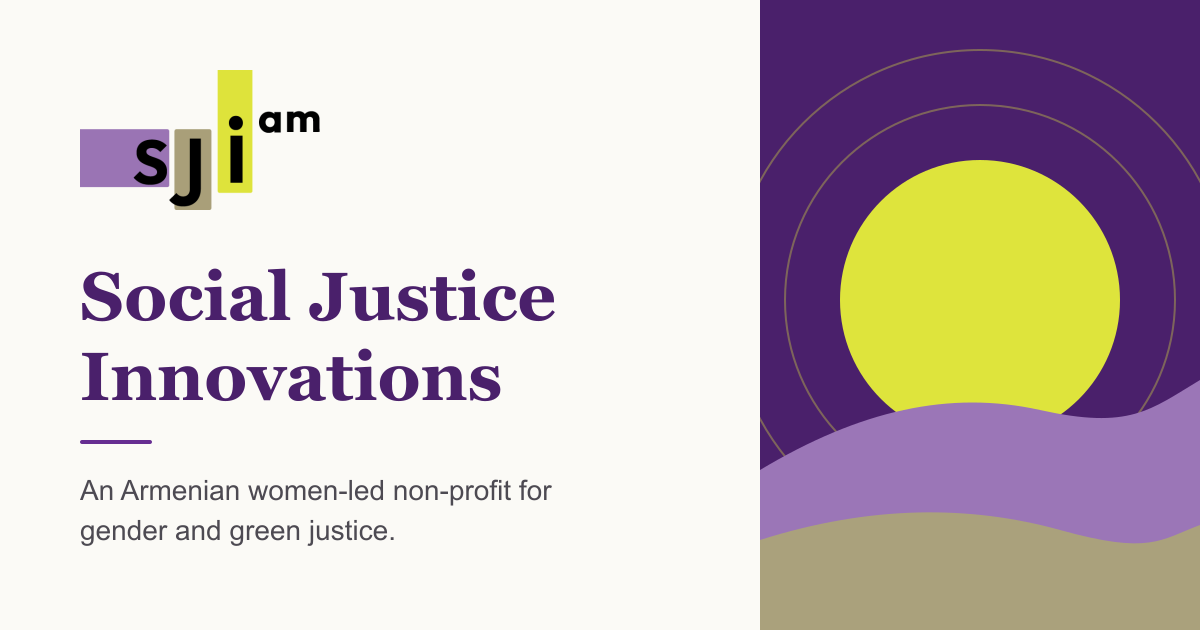
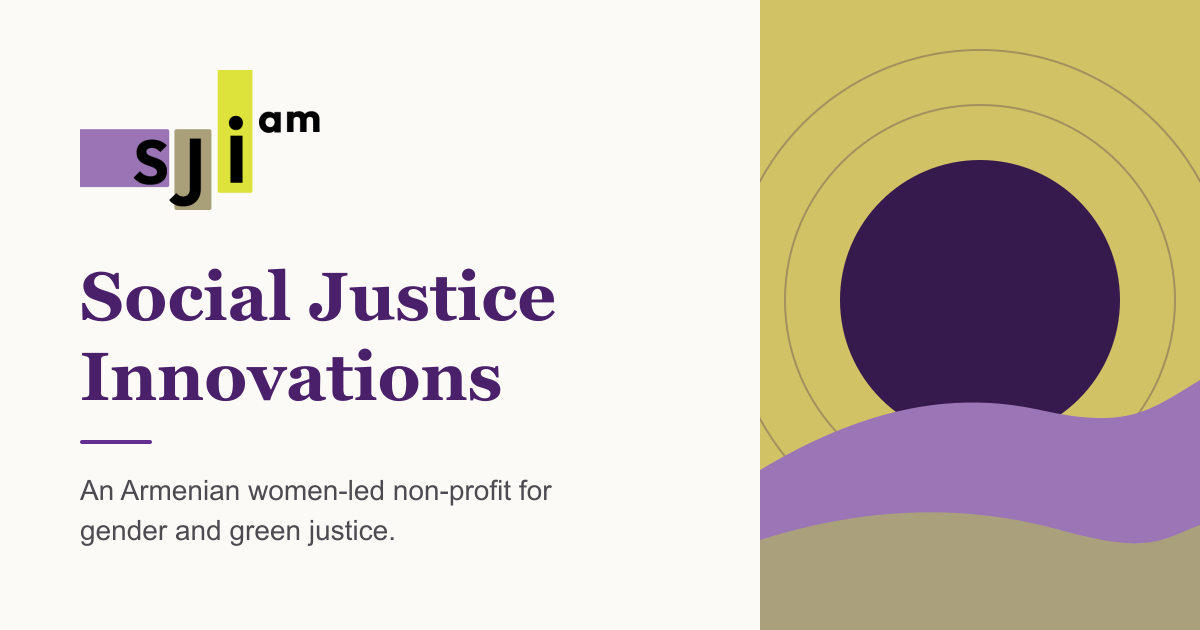
Redesign hero on a gold field and rebalance the palette
- Hero background is now gold #d1c266 (flat, no gradients) with all
  hero text in aubergine #371a4d (8.2:1); hero primary button turns
  aubergine since the logo yellow disappears on gold (1.3:1)
- Recolor the hero illustration (aubergine arch on gold) and the OG
  image panel; theme color is now gold
- Carry the gold into the approach step numbers and connector line
- Remove the 01-06 numbers on objectives (not a sequence), the
  redundant "Step N" labels, the CTA arrow and the card hover lift
- Labels use sentence case instead of tracked uppercase
- Update README palette notes

Changed region(s): [[0.6167, 0.0, 1.0, 0.754]]

diff --git a/assets/css/style.css b/assets/css/style.css
@@ -23,7 +23,7 @@
   /* Gold accent: text ONLY on the dark purples (6.8:1 on purple-800, 8.2:1 on purple-900,
      9.8:1 on purple-950). On light backgrounds it's ~1.7:1, so use it there only for
      decoration (lines, frames, borders), never for text. */
-  --gold-400: #D1C266;
+  --gold-400: #D1C266;   /* hero background; text on it is purple-900 (8.2:1) */
 
   --khaki-700: #5c5230;   /* khaki text on light (7.4:1 on paper) */
   --khaki-500: #7c6e35;   /* logo khaki */
@@ -132,7 +132,8 @@ a:hover { text-decoration-thickness: 2px; }
   outline-offset: 3px;
   border-radius: 4px;
 }
-.hero :focus-visible,
+/* Hero is gold (light): dark aubergine outline instead of the default purple */
+.hero :focus-visible { outline-color: var(--purple-900); }
 .approach :focus-visible,
 .site-footer :focus-visible { outline-color: var(--focus-on-dark); }
 
@@ -201,14 +202,16 @@ main:focus { outline: none; }
   cursor: pointer;
   transition: background-color 0.2s var(--ease), color 0.2s var(--ease), transform 0.2s var(--ease), border-color 0.2s var(--ease);
 }
-.btn .icon { transition: transform 0.2s var(--ease); }
-.btn:hover .icon { transform: translateX(3px); }
 
 .btn--primary { background: var(--lime-400); color: var(--purple-950); }
 .btn--primary:hover { background: var(--lime-300); }
 
-.btn--ghost { border-color: rgb(255 255 255 / 0.55); color: var(--white); }
-.btn--ghost:hover { border-color: var(--white); background: rgb(255 255 255 / 0.08); }
+.btn--ghost { border-color: var(--purple-900); color: var(--purple-900); }
+.btn--ghost:hover { background: rgb(55 26 77 / 0.08); }
+
+/* On the gold hero the yellow button would disappear (1.3:1), so it turns aubergine */
+.hero .btn--primary { background: var(--purple-900); color: var(--paper); }
+.hero .btn--primary:hover { background: var(--purple-600); }
 
 .btn--block { width: 100%; }
 /* On white, give the yellow button a visible edge */
@@ -226,8 +229,7 @@ main:focus { outline: none; }
   color: var(--purple-600);
   font-size: var(--step--1);
   font-weight: 600;
-  letter-spacing: 0.08em;
-  text-transform: uppercase;
+  letter-spacing: 0.01em;
 }
 .eyebrow::before {
   content: "";
@@ -238,9 +240,6 @@ main:focus { outline: none; }
   background: var(--gold-400);
   border-radius: 2px;
 }
-:root:lang(hy) .eyebrow,
-:root:lang(hy) .step .step-label,
-:root:lang(hy) .contact-label { text-transform: none; letter-spacing: 0.01em; }
 .eyebrow--light { color: var(--gold-400); }
 
 .section { padding-block: var(--space-xl); }
@@ -459,16 +458,17 @@ main:focus { outline: none; }
 /* ==========================================================================
    Hero
    ========================================================================== */
+/* A flat gold field: the page's one bold element. Everything on it is
+   purple-900 (8.2:1), the logo yellow is never used on it (1.3:1). */
 .hero {
   position: relative;
   overflow: hidden;
-  background:
-    radial-gradient(60rem 40rem at 110% -10%, rgb(222 228 60 / 0.14), transparent 60%),
-    radial-gradient(40rem 30rem at -10% 120%, rgb(155 118 183 / 0.3), transparent 60%),
-    var(--purple-800);
-  color: var(--white);
+  background: var(--gold-400);
+  color: var(--purple-900);
   padding-block: clamp(3rem, 2rem + 5vw, 6.5rem);
 }
+.hero .eyebrow { color: var(--purple-900); }
+.hero .eyebrow::before { background: var(--purple-900); }
 .hero-inner {
   display: grid;
   gap: var(--space-l);
@@ -479,13 +479,13 @@ main:focus { outline: none; }
   font-weight: 500;
   letter-spacing: -0.01em;
   max-width: 22ch;
-  color: var(--white);
+  color: var(--purple-900);
 }
 :root:lang(hy) .hero-title { max-width: 30ch; letter-spacing: 0; }
 .hero-lede {
   max-width: 36rem;
   font-size: var(--step-1);
-  color: var(--purple-100);
+  color: var(--purple-900);
 }
 .hero-actions { display: flex; flex-wrap: wrap; gap: 0.75rem; margin-top: var(--space-m); }
 .hero-art { max-width: 26rem; margin-inline: auto; width: 100%; }
@@ -568,21 +568,9 @@ main:focus { outline: none; }
   background: var(--paper);
   border: 1px solid var(--khaki-200);
   border-radius: var(--radius);
-  transition: transform 0.25s var(--ease), box-shadow 0.25s var(--ease), border-color 0.25s var(--ease);
 }
-.card:hover { transform: translateY(-3px); box-shadow: var(--shadow-md); border-color: var(--gold-400); }
 .card h3 { color: var(--purple-800); margin-bottom: 0.4em; }
 .card p { color: var(--text-muted); }
-.card-num {
-  position: absolute;
-  top: 1.25rem;
-  right: 1.5rem;
-  font-family: "Fraunces", Georgia, serif;
-  font-size: 1.5rem;
-  font-weight: 500;
-  color: var(--khaki-200);
-  line-height: 1;
-}
 .card-icon {
   width: 2.75rem;
   height: 2.75rem;
@@ -632,7 +620,7 @@ main:focus { outline: none; }
   height: 3rem;
   margin-bottom: 1rem;
   border-radius: 50%;
-  background: var(--lime-400);
+  background: var(--gold-400); /* echoes the hero */
   color: var(--purple-950);
   font-family: "Fraunces", Georgia, serif;
   font-size: 1.35rem;
@@ -640,15 +628,7 @@ main:focus { outline: none; }
   position: relative;
   z-index: 1;
 }
-.step .step-label {
-  margin-bottom: 0.35rem;
-  color: var(--gold-400);
-  font-size: var(--step--1);
-  font-weight: 600;
-  letter-spacing: 0.08em;
-  text-transform: uppercase;
-}
-
+ 
 @media (min-width: 56em) {
   .steps { grid-template-columns: repeat(3, 1fr); gap: 1.5rem; }
   /* connecting line between step numbers */
@@ -659,7 +639,7 @@ main:focus { outline: none; }
     left: 3rem;
     right: 3rem;
     height: 2px;
-    background: repeating-linear-gradient(90deg, rgb(222 228 60 / 0.55) 0 8px, transparent 8px 16px);
+    background: repeating-linear-gradient(90deg, rgb(209 194 102 / 0.55) 0 8px, transparent 8px 16px);
   }
 }
 
@@ -730,8 +710,6 @@ main:focus { outline: none; }
   font-size: var(--step--1);
   font-weight: 600;
   color: var(--text-muted);
-  text-transform: uppercase;
-  letter-spacing: 0.06em;
 }
 .contact-email {
   display: inline-flex;
@@ -859,7 +837,6 @@ main:focus { outline: none; }
     transition-duration: 0.01ms !important;
     scroll-behavior: auto !important;
   }
-  .card:hover { transform: none; }
 }
 
 /* Windows High Contrast / forced colors */

diff --git a/index.html b/index.html
@@ -9,7 +9,7 @@
        The English values below are what search engines and link previews see. -->
   <title>Social Justice Innovations (SJI) — Gender and green justice in Armenia</title>
   <meta name="description" content="SJI is an Armenian women-led non-profit advancing social justice, dignity, inclusion and resilience through gender and green mainstreaming.">
-  <meta name="theme-color" content="#4a206b">
+  <meta name="theme-color" content="#d1c266">
 
   <!-- TODO(domain): replace https://www.example.org/ everywhere in this file, sitemap.xml and robots.txt -->
   <link rel="canonical" href="https://www.example.org/">
@@ -80,7 +80,6 @@
       <symbol id="i-megaphone" viewBox="0 0 24 24"><path d="M3 10v4h3l8 4V6L6 10H3Z"/><path d="M17.5 9a4 4 0 0 1 0 6M6 14l1.5 5h2.5L9 15"/></symbol>
       <symbol id="i-check" viewBox="0 0 24 24"><path d="m5 12.5 4.5 4.5L19 7.5"/></symbol>
       <symbol id="i-mail" viewBox="0 0 24 24"><rect x="3" y="5.5" width="18" height="13" rx="2"/><path d="m3.5 7 8.5 6 8.5-6"/></symbol>
-      <symbol id="i-arrow" viewBox="0 0 24 24"><path d="M5 12h14M13 6l6 6-6 6"/></symbol>
       <symbol id="i-up" viewBox="0 0 24 24"><path d="M12 19V5M6 11l6-6 6 6"/></symbol>
     </defs>
   </svg>
@@ -128,13 +127,12 @@
     <section class="hero" aria-labelledby="hero-title">
       <div class="container hero-inner">
         <div class="hero-copy">
-          <p class="eyebrow eyebrow--light" data-i18n="hero.eyebrow">Armenian women-led non-profit</p>
+          <p class="eyebrow" data-i18n="hero.eyebrow">Armenian women-led non-profit</p>
           <h1 id="hero-title" class="hero-title" data-i18n="hero.title">Advancing social justice, dignity, inclusion and resilience through gender and green mainstreaming.</h1>
           <p class="hero-lede" data-i18n="hero.lede">Social Justice Innovations (SJI) is a non-profit public organization led by women and working with women in climate-vulnerable communities.</p>
           <div class="hero-actions">
             <a class="btn btn--primary" href="#contact">
               <span data-i18n="hero.cta">Get involved</span>
-              <svg class="icon" aria-hidden="true"><use href="#i-arrow"/></svg>
             </a>
             <a class="btn btn--ghost" href="#approach" data-i18n="hero.cta2">See our approach</a>
           </div>
@@ -192,37 +190,31 @@
 
         <ol class="cards" role="list">
           <li class="card reveal">
-            <span class="card-num" aria-hidden="true">01</span>
             <svg class="card-icon" aria-hidden="true"><use href="#i-scale"/></svg>
             <h3 data-i18n="obj.1.t">Reducing inequality</h3>
             <p data-i18n="obj.1.d">Reducing socio-economic inequality, multidimensional poverty and digital exclusion.</p>
           </li>
           <li class="card reveal">
-            <span class="card-num" aria-hidden="true">02</span>
             <svg class="card-icon" aria-hidden="true"><use href="#i-people"/></svg>
             <h3 data-i18n="obj.2.t">Empowerment</h3>
             <p data-i18n="obj.2.d">Empowering women, young people and other vulnerable groups.</p>
           </li>
           <li class="card reveal">
-            <span class="card-num" aria-hidden="true">03</span>
             <svg class="card-icon" aria-hidden="true"><use href="#i-search"/></svg>
             <h3 data-i18n="obj.3.t">Research &amp; advocacy</h3>
             <p data-i18n="obj.3.d">Conducting research, policy analysis and advocacy.</p>
           </li>
           <li class="card reveal">
-            <span class="card-num" aria-hidden="true">04</span>
             <svg class="card-icon" aria-hidden="true"><use href="#i-home"/></svg>
             <h3 data-i18n="obj.4.t">Community development</h3>
             <p data-i18n="obj.4.d">Supporting community development.</p>
           </li>
           <li class="card reveal">
-            <span class="card-num" aria-hidden="true">05</span>
             <svg class="card-icon" aria-hidden="true"><use href="#i-leaf"/></svg>
             <h3 data-i18n="obj.5.t">Green communities</h3>
             <p data-i18n="obj.5.d">Promoting green communities and environmental justice.</p>
           </li>
           <li class="card reveal">
-            <span class="card-num" aria-hidden="true">06</span>
             <svg class="card-icon" aria-hidden="true"><use href="#i-path"/></svg>
             <h3 data-i18n="obj.6.t">A just transition</h3>
             <p data-i18n="obj.6.d">Promoting a just transition that prevents poverty and unemployment risks.</p>
@@ -243,19 +235,16 @@
         <ol class="steps" role="list">
           <li class="step reveal">
             <span class="step-num" aria-hidden="true">1</span>
-            <p class="step-label" data-i18n="approach.step1">Step 1</p>
             <h3 data-i18n="approach.1.t">Identify lived impacts</h3>
             <p data-i18n="approach.1.d">Identify the lived impacts of climate and environmental risks on health, livelihoods, care responsibilities and access to services.</p>
           </li>
           <li class="step reveal">
             <span class="step-num" aria-hidden="true">2</span>
-            <p class="step-label" data-i18n="approach.step2">Step 2</p>
             <h3 data-i18n="approach.2.t">Strengthen collective voice</h3>
             <p data-i18n="approach.2.d">Strengthen women's collective voice through meaningful participation in decision-making.</p>
           </li>
           <li class="step reveal">
             <span class="step-num" aria-hidden="true">3</span>
-            <p class="step-label" data-i18n="approach.step3">Step 3</p>
             <h3 data-i18n="approach.3.t">Shape policy</h3>
             <p data-i18n="approach.3.d">Translate community knowledge into advocacy and policy recommendations.</p>
           </li>

diff --git a/assets/js/i18n.js b/assets/js/i18n.js
@@ -67,9 +67,6 @@ window.SJI_I18N = {
     "approach.eyebrow": "Green justice & social resilience",
     "approach.title": "From lived experience to policy change",
     "approach.intro": "SJI acts as a green justice and social resilience advocate, working with low-income and otherwise disadvantaged women in climate-vulnerable communities to:",
-    "approach.step1": "Step 1",
-    "approach.step2": "Step 2",
-    "approach.step3": "Step 3",
     "approach.1.t": "Identify lived impacts",
     "approach.1.d": "Identify the lived impacts of climate and environmental risks on health, livelihoods, care responsibilities and access to services.",
     "approach.2.t": "Strengthen collective voice",
@@ -178,9 +175,6 @@ window.SJI_I18N = {
     "approach.eyebrow": "Կանաչ արդարություն և սոցիալական դիմակայունություն",
     "approach.title": "Կենսափորձից՝ քաղաքականության փոփոխություն",
     "approach.intro": "SJI-ն հանդես է գալիս որպես կանաչ արդարության և սոցիալական դիմակայունության ջատագով՝ աշխատելով կլիմայական ռիսկերի նկատմամբ խոցելի համայնքների ցածր եկամուտ ունեցող և այլ անապահով կանանց հետ, որպեսզի՝",
-    "approach.step1": "Քայլ 1",
-    "approach.step2": "Քայլ 2",
-    "approach.step3": "Քայլ 3",
     "approach.1.t": "Բացահայտել իրական ազդեցությունները",
     "approach.1.d": "Բացահայտենք կլիմայական և բնապահպանական ռիսկերի իրական ազդեցությունը առողջության, ապրուստի միջոցների, խնամքի պարտականությունների և ծառայությունների հասանելիության վրա։",
     "approach.2.t": "Ուժեղացնել հավաքական ձայնը",

diff --git a/README.md b/README.md
@@ -42,8 +42,8 @@ To preview locally: `php -S localhost:8000` in this folder, then open http://loc
 
 **Language behavior.** The page first uses the visitor's saved choice (`localStorage`, key `sji-lang`). If there is none, it uses Armenian for browsers set to Armenian and English for everything else. The switch also updates `<html lang>`, the page title and the meta description. There's only one URL, so search engines index the English version.
 
-**Colors and type.** Edit the CSS variables at the top of `style.css`. The palette comes from the logo: purple (`--purple-600` #662D91, with darker shades for the hero, dark sections and footer), yellow (`--lime-400` #DEE43C, the logo's yellow as it appears on white, used for primary buttons and accents on dark backgrounds), khaki (`--khaki-*`), a gold accent (`--gold-400` #D1C266) and an off-white page (`--paper`). Never use the yellow or the gold as text on light backgrounds, because their contrast is too low there (gold is about 1.7:1). On light sections the gold is only decorative (eyebrow lines, the photo frame, card hover borders). On the dark purples it is also used for text (labels, footer link hover). The pairs used for text pass WCAG AA:
-purple-600 on paper ≈ 8.6:1, ink-600 on paper ≈ 8.3:1, khaki-700 on paper ≈ 7.4:1, white on purple-800 ≈ 12:1, lime-400 on purple-900 ≈ 10.8:1, gold-400 on purple-800 ≈ 6.8:1, purple-950 on lime-400 (button text) ≈ 12.9:1. If you change a color, check it again. The hero illustration and `og-image.svg` use the same colors, so update them too.
+**Colors and type.** Edit the CSS variables at the top of `style.css`. The palette comes from the logo: purple (`--purple-600` #662D91, with darker shades for the hero, dark sections and footer), yellow (`--lime-400` #DEE43C, the logo's yellow as it appears on white, used for primary buttons and accents on dark backgrounds), khaki (`--khaki-*`), a gold accent (`--gold-400` #D1C266) and an off-white page (`--paper`). Never use the yellow or the gold as text on light backgrounds, because their contrast is too low there (gold is about 1.7:1). The gold is the **hero background**; everything on it uses `--purple-900` (8.2:1), and the hero's main button is aubergine because the logo yellow disappears on gold (1.3:1). Elsewhere on light sections the gold is only decorative (the line before section labels, the photo frame). On the dark purples it also colors the step numbers and the footer link hover. The pairs used for text pass WCAG AA:
+purple-600 on paper ≈ 8.6:1, ink-600 on paper ≈ 8.3:1, khaki-700 on paper ≈ 7.4:1, white on purple-800 ≈ 12:1, lime-400 on purple-900 ≈ 10.8:1, purple-900 on gold-400 (hero text) ≈ 8.2:1, gold-400 on purple-800 ≈ 6.8:1, purple-950 on lime-400 (button text) ≈ 12.9:1. If you change a color, check it again. The hero illustration and `og-image.svg` use the same colors, so update them too.
 
 **Fonts.** The fonts load from Google Fonts with `display=swap`: Fraunces for Latin headings, Noto Sans for body text, and Noto Sans Armenian / Noto Serif Armenian for Armenian. To self-host them instead, download the WOFF2 files (for example with google-webfonts-helper) into `assets/fonts/`. Then add `@font-face` rules with `font-display: swap` to the top of `style.css` and remove the three Google `<link>` tags from `index.html`. The font-family names in the CSS don't need to change.
 
